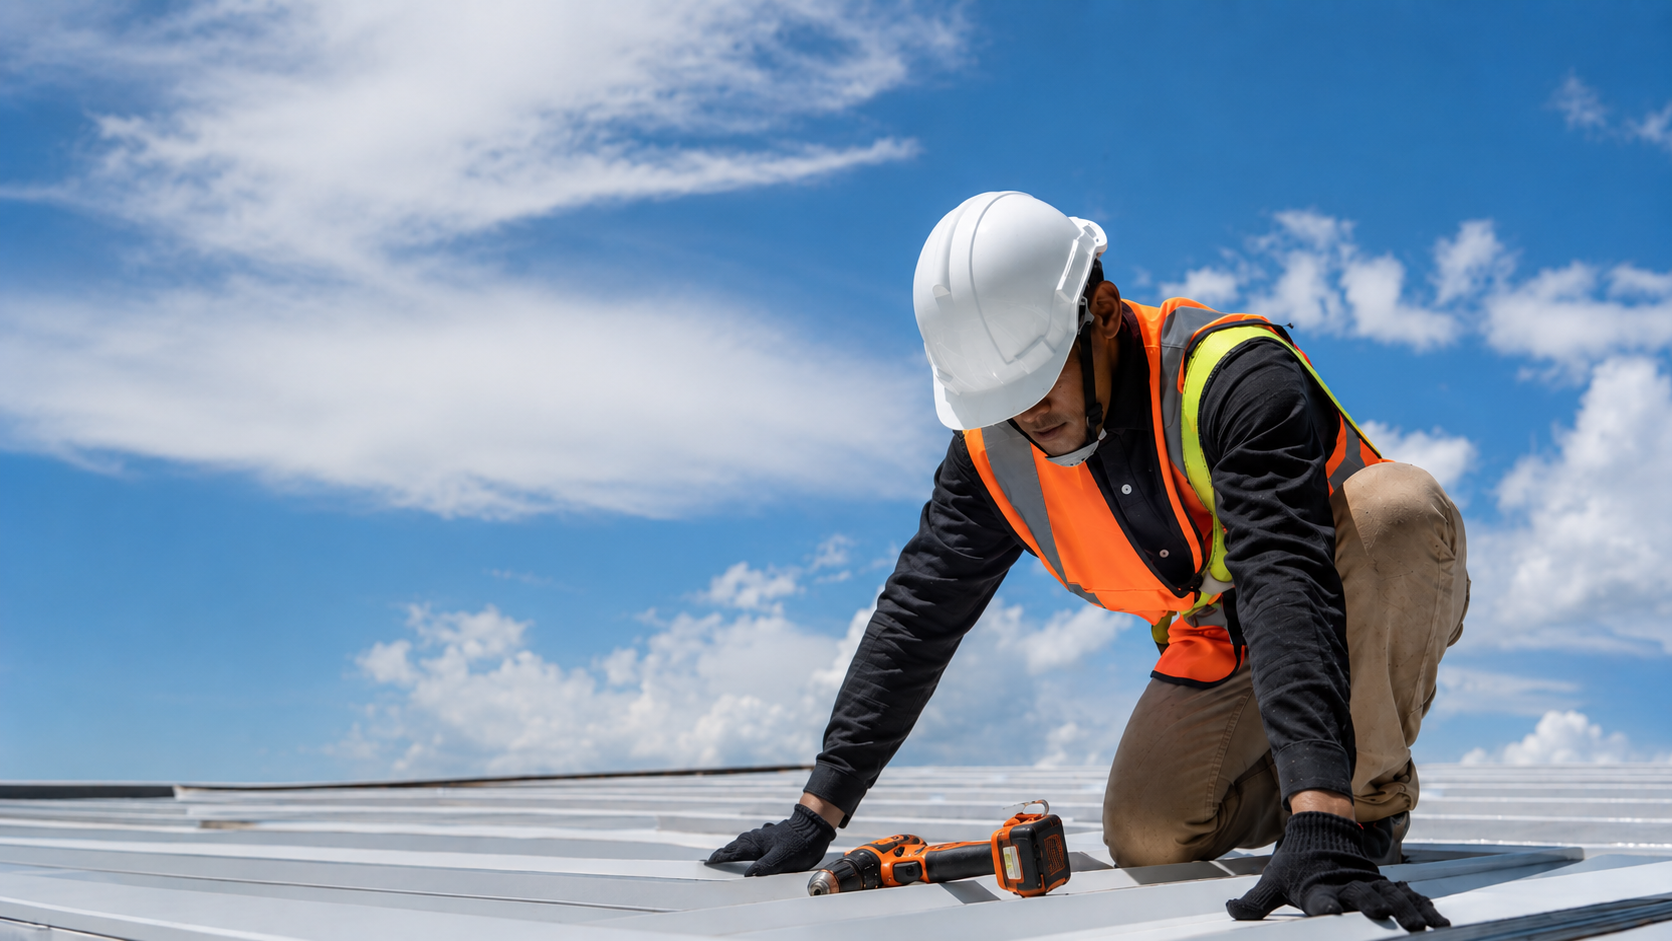
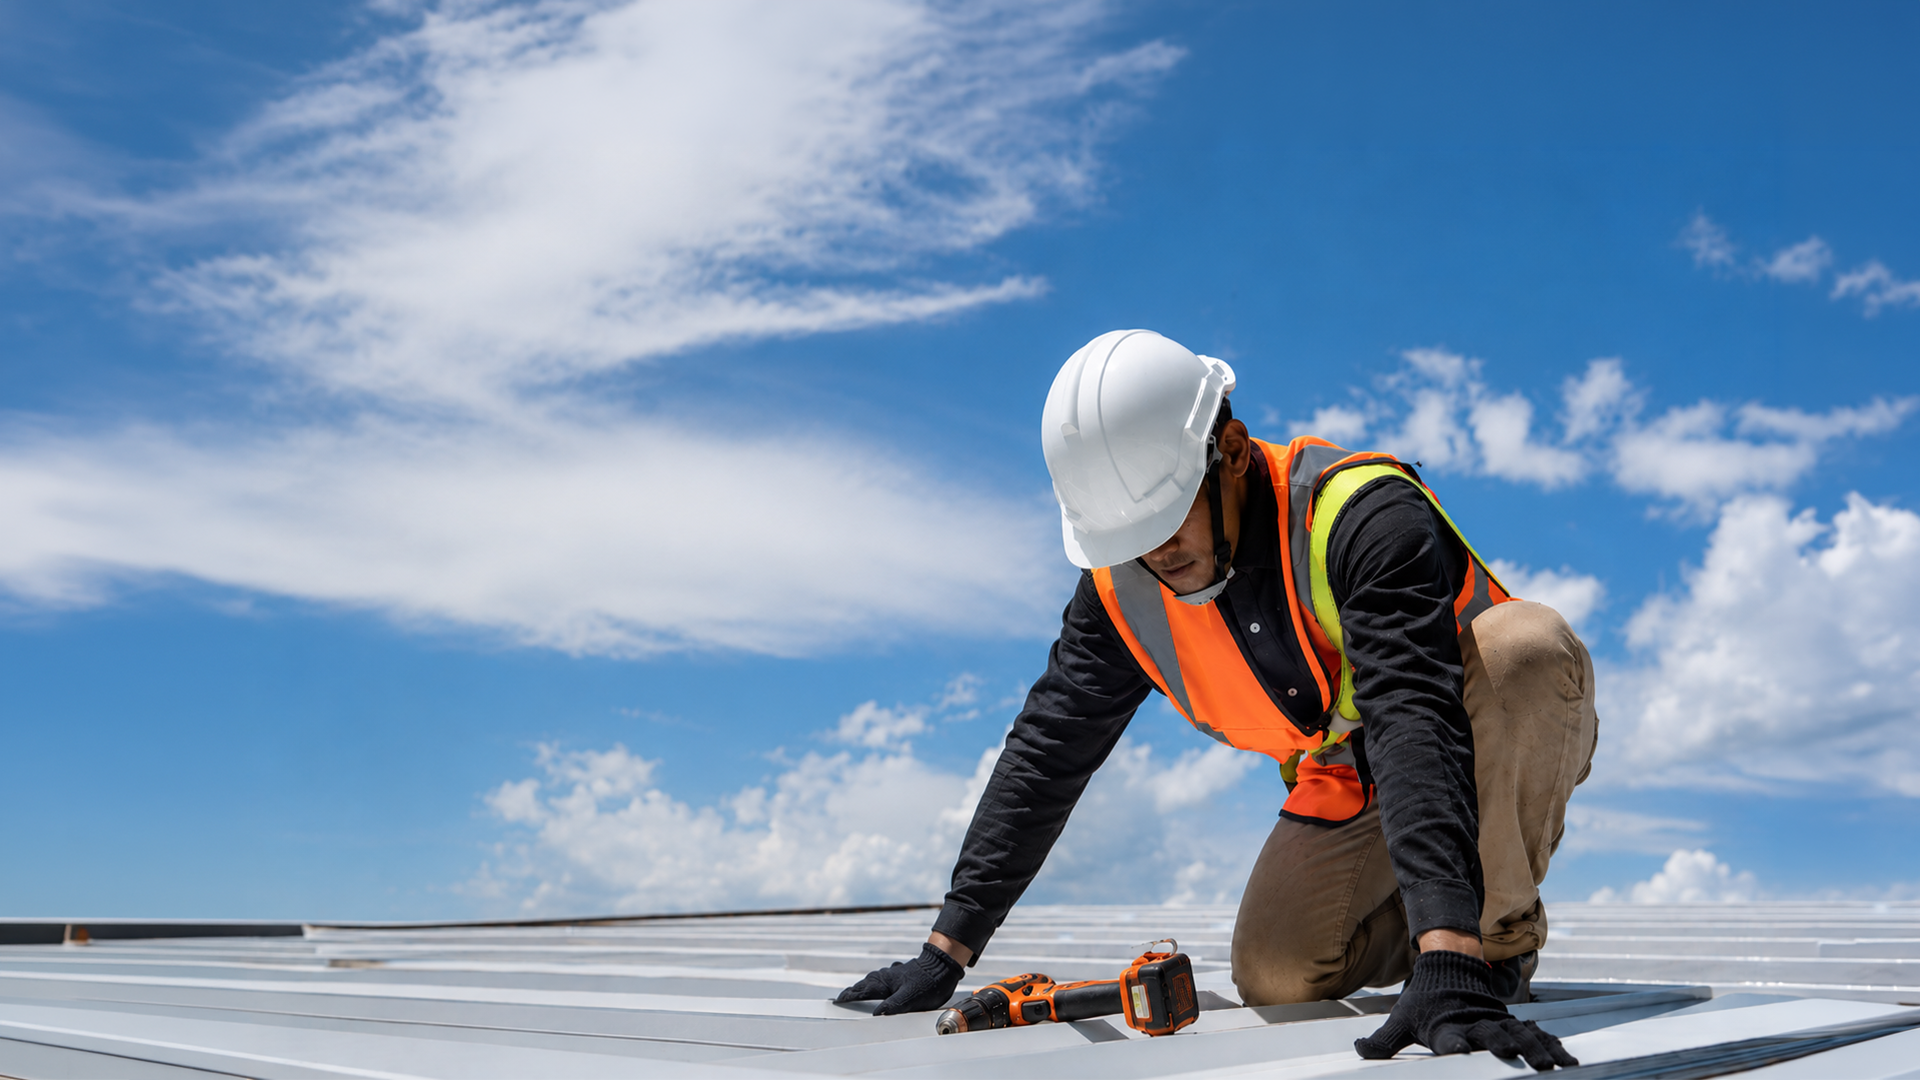
add: cloud bridge

diff --git a/src/shared/components/layout/Header.tsx b/src/shared/components/layout/Header.tsx
@@ -2,7 +2,8 @@
 
 import Link from "next/link";
 import Image from "next/image";
-import { useState } from "react";
+import { useEffect, useRef, useState } from "react";
+import { createPortal } from "react-dom";
 
 type NavLink = {
     label: string;
@@ -11,7 +12,11 @@ type NavLink = {
 };
 
 const NAV_LINKS: NavLink[] = [
-    { label: "ABOUT", href: "/about" },
+    {
+        label: "ABOUT",
+        href: "/about",
+        dropdown: [{ label: "Our Story", href: "/about" }],
+    },
     {
         label: "SOLUTIONS",
         href: "/services",
@@ -47,30 +52,7 @@ export default function Header() {
                 <nav className="hidden items-center gap-10 lg:flex">
                     {NAV_LINKS.map((link) =>
                         link.dropdown ? (
-                            <div key={link.href} className="group relative">
-                                <button
-                                    type="button"
-                                    className="flex items-center gap-1 text-sm font-semibold tracking-wide text-white transition-colors "
-                                >
-                                    {link.label}
-                                    <ChevronIcon className="transition-transform duration-200 group-hover:rotate-180" />
-                                </button>
-
-                                {/* Panel — aparece al hacer hover sobre el item */}
-                                <div className="invisible absolute left-1/2 top-full mt-3 w-56 -translate-x-1/2 opacity-0 transition-all duration-200 group-hover:visible group-hover:opacity-100">
-                                    <div className="rounded-xl border border-white/15 bg-white/10 py-2 shadow-xl backdrop-blur-md">
-                                        {link.dropdown.map((item) => (
-                                            <Link
-                                                key={item.href}
-                                                href={item.href}
-                                                className="block px-4 py-2 text-sm text-white/90 transition-colors hover:bg-white/10 hover:text-white"
-                                            >
-                                                {item.label}
-                                            </Link>
-                                        ))}
-                                    </div>
-                                </div>
-                            </div>
+                            <NavDropdown key={link.href} link={link} />
                         ) : (
                             <Link
                                 key={link.href}
@@ -88,19 +70,16 @@ export default function Header() {
                     href="/quote"
                     className="group hidden items-center gap-4 rounded-full pl-8 pr-2 py-2 text-sm font-bold tracking-wide text-white transition-all hover:scale-[1.03] lg:flex"
                     style={{
-                        // Fondo translúcido pero con más cuerpo
                         background: "rgba(255, 255, 255, 0.15)",
                         backdropFilter: "blur(12px)",
                         WebkitBackdropFilter: "blur(12px)",
-
-                        boxShadow: "0 8px 20px rgba(0, 0, 0, 0.05)"
-                        // Sombra suave para separar del fondo
+                        boxShadow: "0 8px 20px rgba(0, 0, 0, 0.05)",
                     }}
                 >
                     GET A QUOTE
                     <span className="flex h-9 w-9 items-center justify-center rounded-full bg-[#8ED2EE] text-[#0B2545] transition-transform group-hover:rotate-[-10deg]">
-        <ArrowIcon />
-    </span>
+                        <ArrowIcon />
+                    </span>
                 </Link>
 
                 {/* Mobile toggle */}
@@ -160,6 +139,95 @@ export default function Header() {
                 </div>
             )}
         </header>
+    );
+}
+
+// Dropdown con Portal: el panel se renderiza directamente en <body>, fuera
+// del <header> (que tiene z-50 y por lo tanto es su propio contexto de
+// apilamiento). Así el backdrop-filter del panel puede "ver" y desenfocar
+// la foto del Hero de verdad, en vez de quedar encerrado sin nada detrás.
+function NavDropdown({ link }: { link: NavLink }) {
+    const [open, setOpen] = useState(false);
+    const [position, setPosition] = useState({ top: 0, left: 0 });
+    const triggerRef = useRef<HTMLButtonElement>(null);
+    const closeTimeoutRef = useRef<ReturnType<typeof setTimeout> | null>(null);
+
+    const clearCloseTimeout = () => {
+        if (closeTimeoutRef.current) {
+            clearTimeout(closeTimeoutRef.current);
+            closeTimeoutRef.current = null;
+        }
+    };
+
+    const openDropdown = () => {
+        clearCloseTimeout();
+        const rect = triggerRef.current?.getBoundingClientRect();
+        if (rect) {
+            setPosition({ top: rect.bottom + 12, left: rect.left });
+        }
+        setOpen(true);
+    };
+
+    const scheduleClose = () => {
+        clearCloseTimeout();
+        closeTimeoutRef.current = setTimeout(() => setOpen(false), 150);
+    };
+
+    // Cierra el dropdown si el usuario hace scroll (evita que quede
+    // "flotando" en una posición vieja mientras la página se mueve).
+    useEffect(() => {
+        if (!open) return;
+        const onScroll = () => setOpen(false);
+        window.addEventListener("scroll", onScroll, { passive: true });
+        return () => window.removeEventListener("scroll", onScroll);
+    }, [open]);
+
+    useEffect(() => clearCloseTimeout, []);
+
+    return (
+        <div onMouseEnter={openDropdown} onMouseLeave={scheduleClose}>
+            <button
+                ref={triggerRef}
+                type="button"
+                className="flex items-center gap-1 text-sm font-semibold tracking-wide text-white transition-colors"
+            >
+                {link.label}
+                <ChevronIcon
+                    className={`transition-transform duration-200 ${open ? "rotate-180" : ""}`}
+                />
+            </button>
+
+            {open &&
+                typeof document !== "undefined" &&
+                createPortal(
+                    <div
+                        onMouseEnter={clearCloseTimeout}
+                        onMouseLeave={scheduleClose}
+                        className="fixed z-[100] w-auto min-w-[190px]"
+                        style={{ top: position.top, left: position.left }}
+                    >
+                        <div
+                            className="flex flex-col gap-0.5 overflow-hidden rounded-xl border border-white/10 p-1 shadow-lg shadow-black/10"
+                            style={{
+                                background: "rgba(255,255,255,0.1)",
+                                backdropFilter: "blur(20px)",
+                                WebkitBackdropFilter: "blur(20px)",
+                            }}
+                        >
+                            {link.dropdown!.map((item) => (
+                                <Link
+                                    key={item.href}
+                                    href={item.href}
+                                    className="flex h-10 w-full select-none items-center justify-start whitespace-nowrap rounded-[10px] border border-transparent px-4 text-sm font-medium text-white/70 transition-all duration-150 ease-in-out hover:border-white/10 hover:bg-white/10 hover:text-white active:scale-[0.98]"
+                                >
+                                    {item.label}
+                                </Link>
+                            ))}
+                        </div>
+                    </div>,
+                    document.body
+                )}
+        </div>
     );
 }
 

diff --git a/src/features/home/HeroToMapBridge.tsx b/src/features/home/HeroToMapBridge.tsx
@@ -1,0 +1,27 @@
+import Image from "next/image";
+
+type HeroToMapBridgeProps = {
+    /** Nombre del archivo dentro de /assets/features/home/hero/ (ej. "hero-clouds-bridge_17.png") */
+    imageName: string;
+};
+
+// Puente visual entre Hero y Map. El wrapper mide 0 de alto en el flujo del
+// documento (no empuja a Map hacia abajo) — la imagen real va posicionada
+// "absolute" adentro, y "translateY(-50%)" la centra exactamente sobre la
+// costura entre ambas secciones, sin importar cuánto mida realmente en
+// pantalla. Así queda automáticamente 50% metida en el Hero y 50% metida
+// en el Map, sin tener que calcular esa mitad a mano.
+export default function HeroToMapBridge({ imageName }: HeroToMapBridgeProps) {
+    return (
+        <div className="relative z-10 h-0 w-full">
+            <div className="absolute inset-x-0 top-0 aspect-[2/1] w-full -translate-y-1/2">
+                <Image
+                    src={`/assets/features/home/hero/${imageName}`}
+                    alt=""
+                    fill
+                    className="object-cover"
+                />
+            </div>
+        </div>
+    );
+}

diff --git a/src/features/home/Hero.tsx b/src/features/home/Hero.tsx
@@ -3,13 +3,14 @@ import Link from "next/link";
 
 export default function Hero() {
     return (
-        // Usamos h-screen (100vh) para desktop/tablet y dejamos el contenido flexible
-        <section className="relative flex h-screen w-full items-center overflow-hidden">
+        // h-[130vh] en vez de h-screen (100vh) — la sección mide un 30% más
+        // que la altura del viewport.
+        <section className="relative flex h-[120vh] w-full items-center overflow-hidden">
 
             {/* Background image container */}
-            <div className="absolute inset-0 w-full h-screen">
+            <div className="absolute inset-0 h-[120vh] w-full">
                 <Image
-                    src="/assets/features/home/hero/hero_3.png"
+                    src="/assets/features/home/hero/hero_4.png"
                     alt="Roofer installing a new roof"
                     fill
                     priority

diff --git a/src/features/home/Marketplace.tsx b/src/features/home/Marketplace.tsx
@@ -51,8 +51,8 @@ export default function Marketplace() {
                                 <div key={item} className="flex items-center gap-3">
                                     <XCircleIcon />
                                     <span className="text-base font-medium text-[#0B2545]">
-                    {item}
-                  </span>
+                                        {item}
+                                    </span>
                                 </div>
                             ))}
                         </div>

diff --git a/src/features/home/HomeContainer.tsx b/src/features/home/HomeContainer.tsx
@@ -1,6 +1,6 @@
 // features/home/HomeContainer.tsx
 import Hero from "./Hero";
-import CloudsTransition from "./CloudsTransition";
+import HeroToMapBridge from "./HeroToMapBridge";
 import Map from "./Map";
 import HowItWorks from "@/features/home/HowItWorks";
 import Marketplace from "@/features/home/Marketplace";
@@ -14,6 +14,7 @@ export default function HomeContainer() {
     return (
         <main>
             <Hero />
+            <HeroToMapBridge imageName="hero-clouds-bridge_17.png" />
             <Map/>
             <HowItWorks/>
             <Marketplace/>